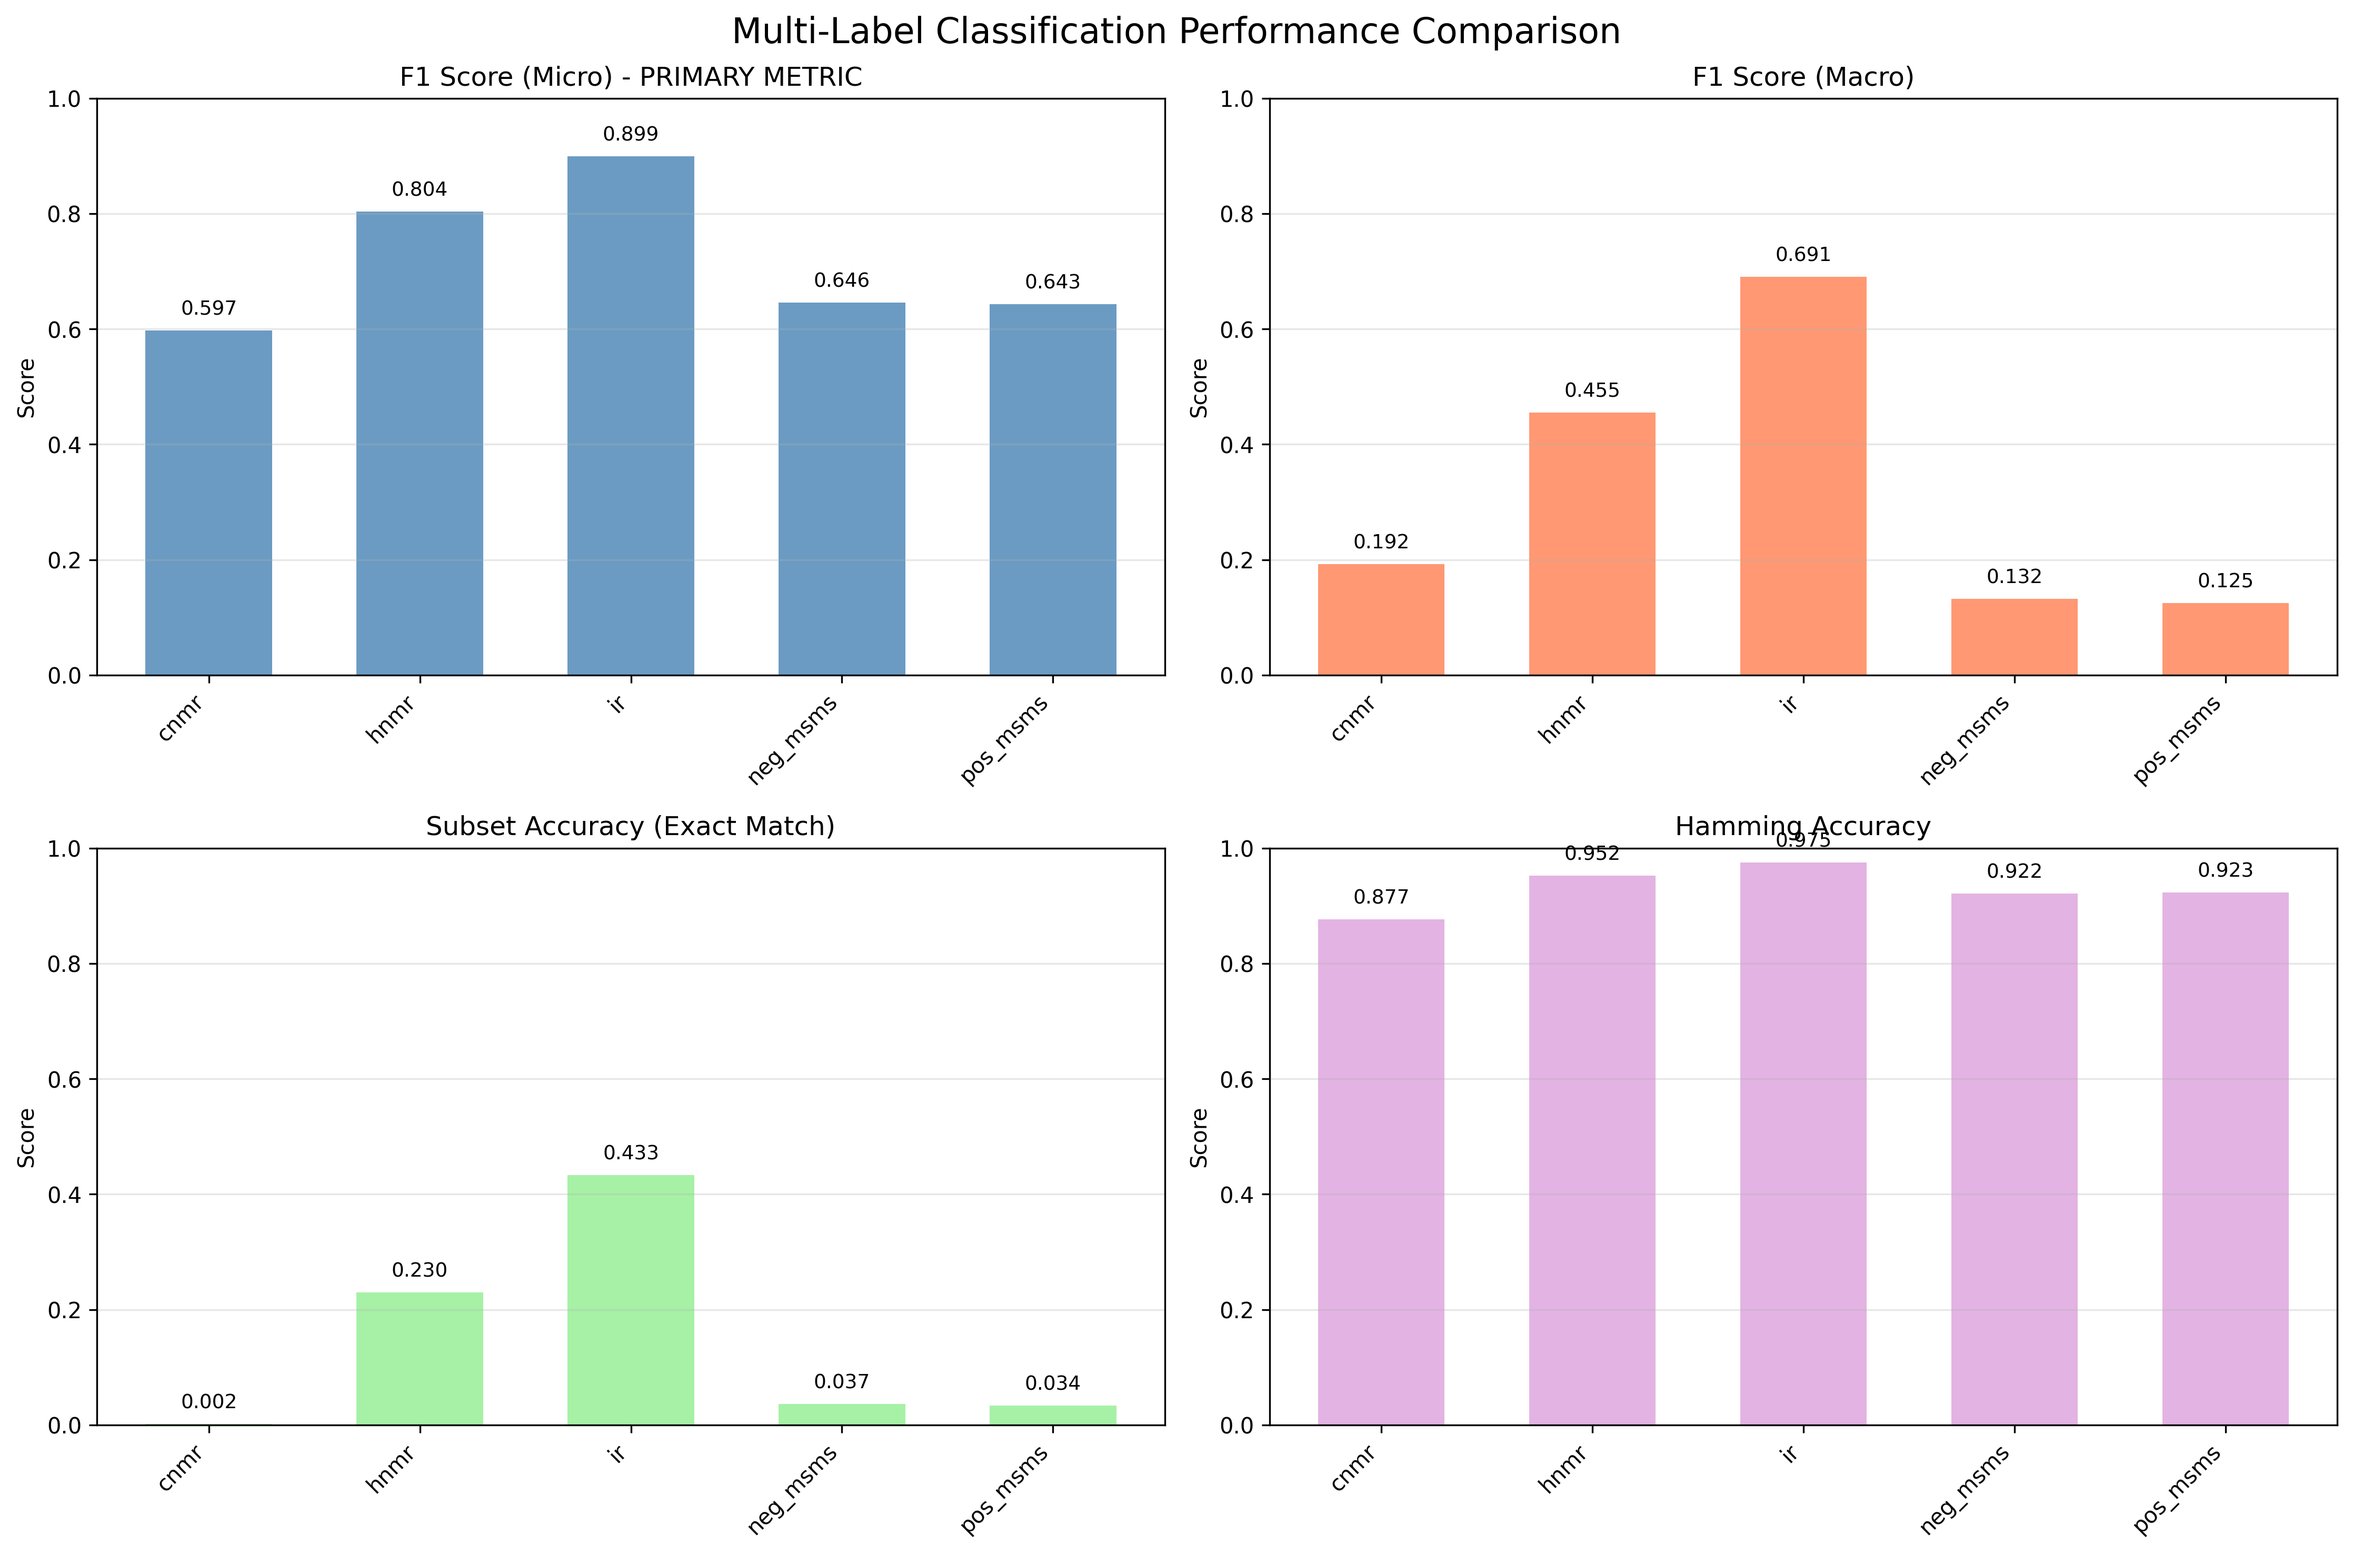
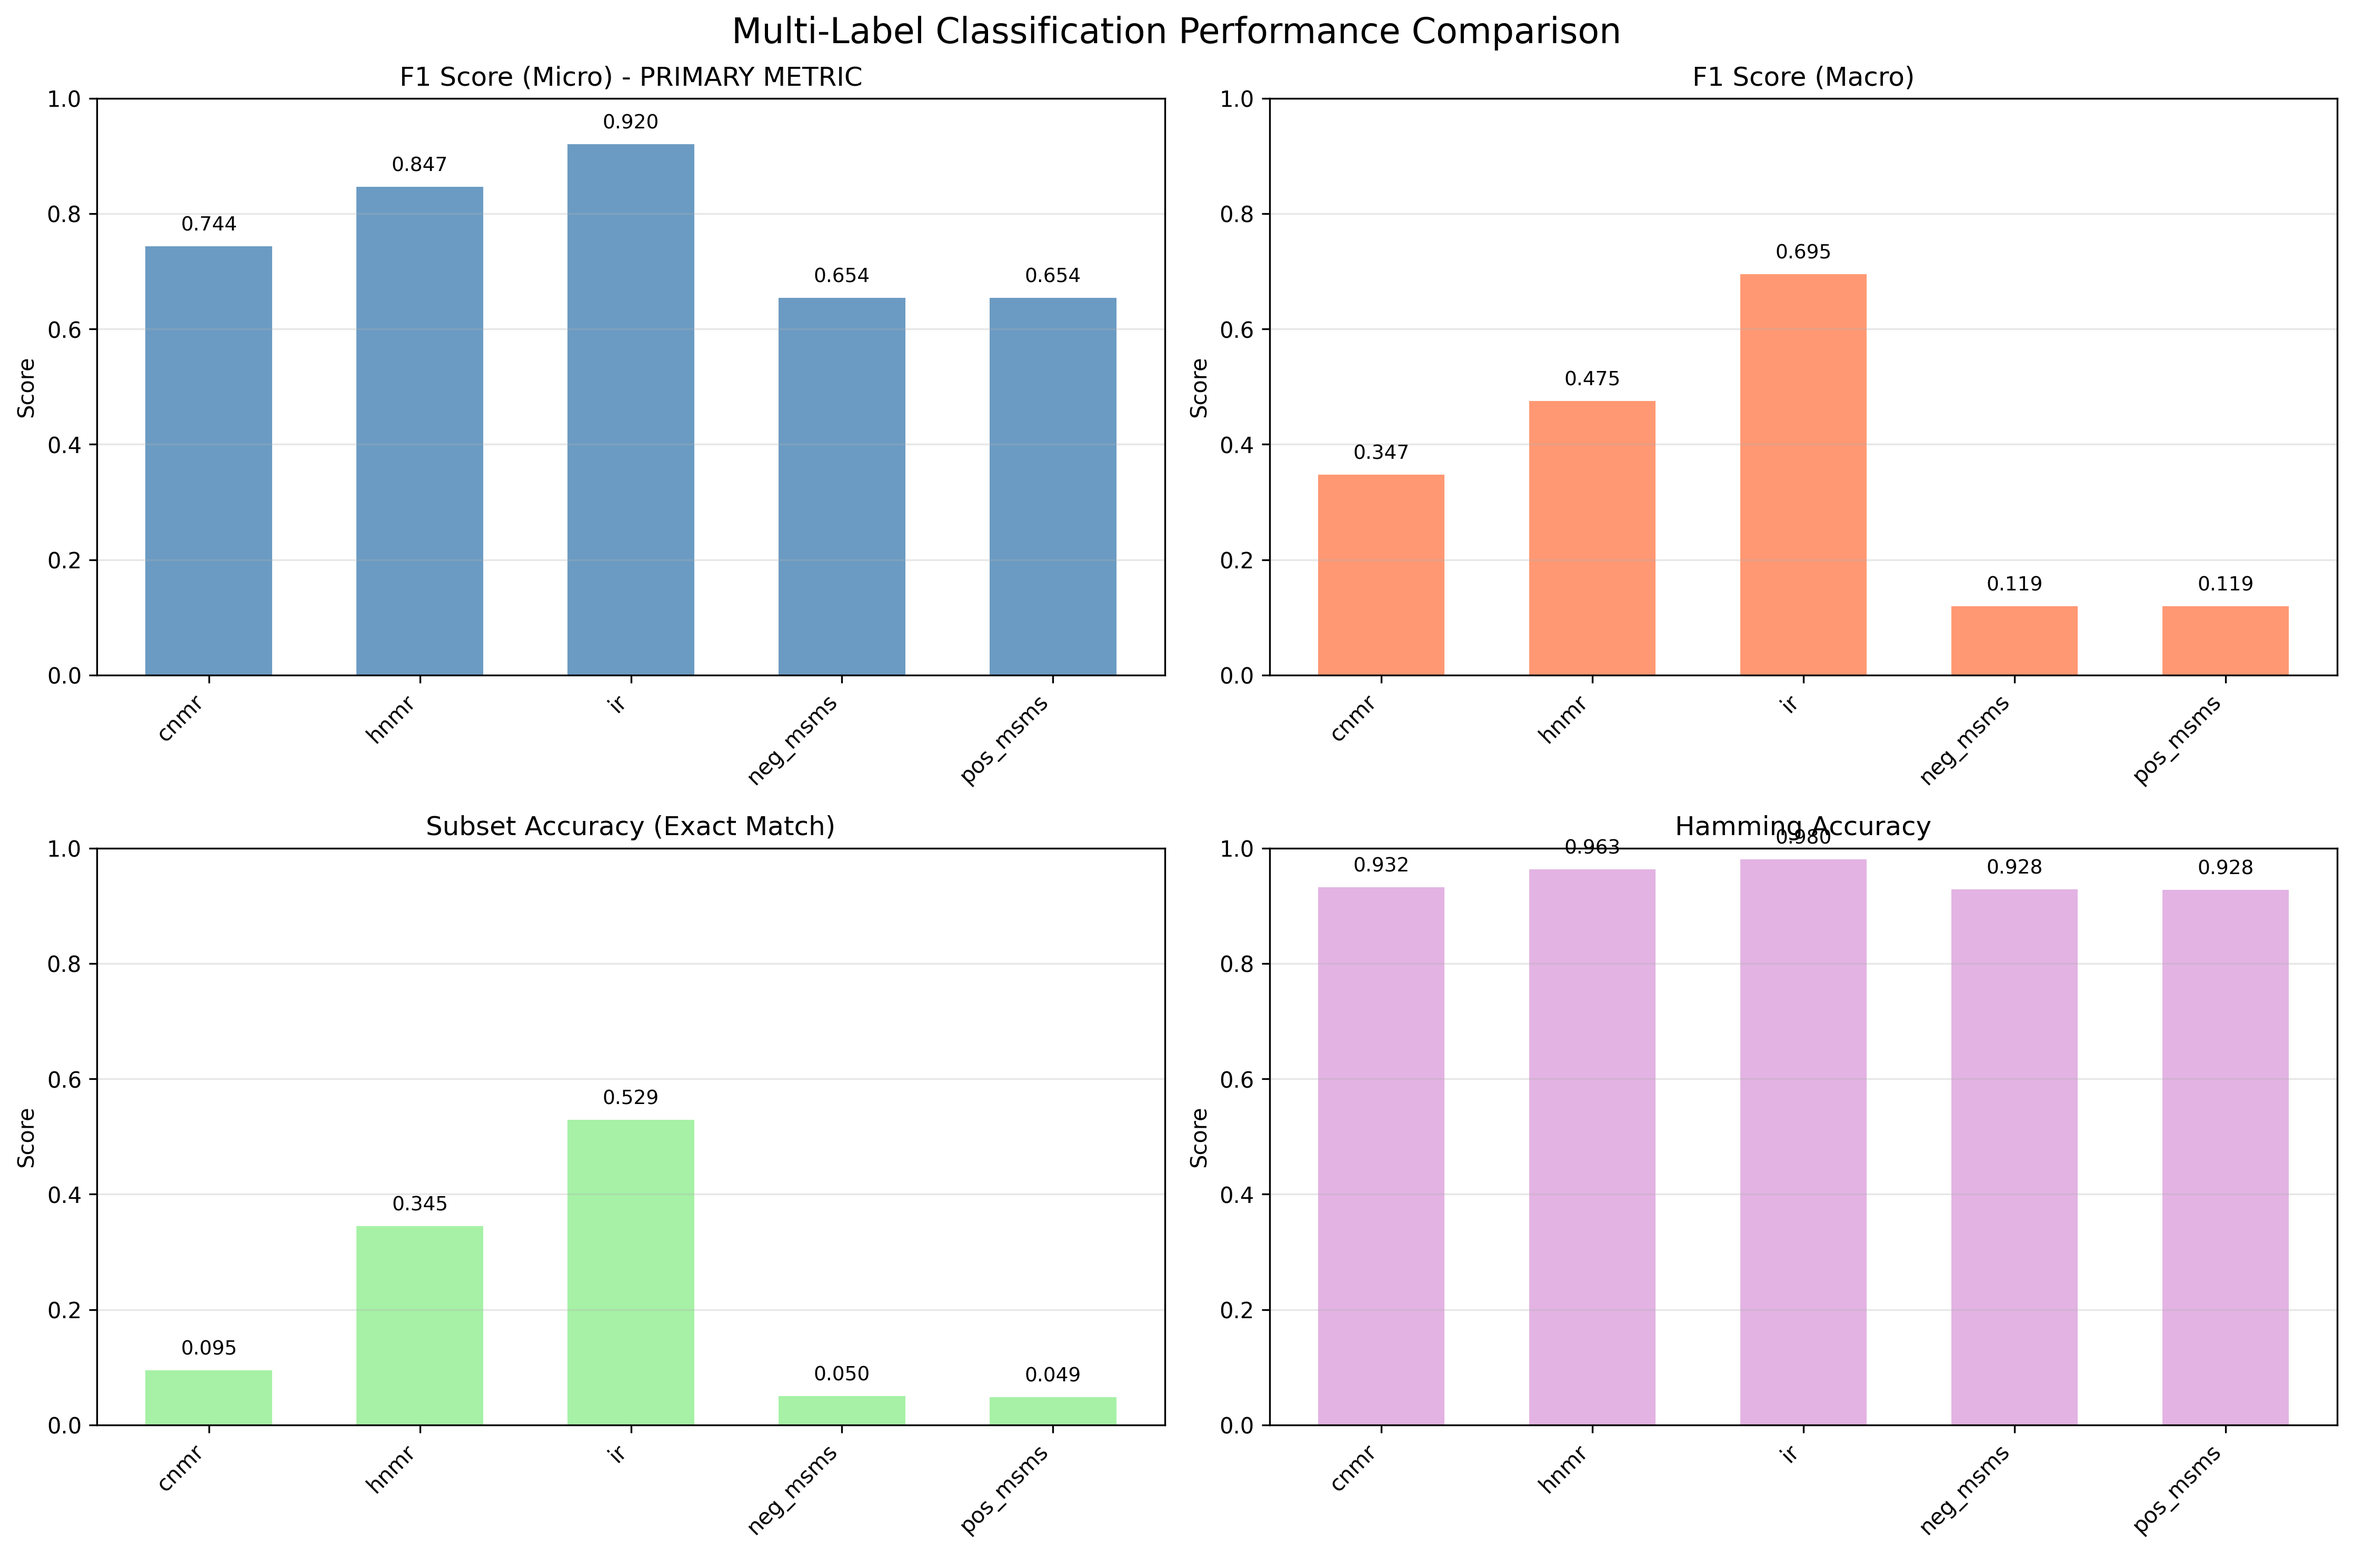
feat: re-run cnn baseline model with improved data split and functional groups definitions

diff --git a/benchmark/cnn/scripts/run_cnn_jung_baseline.py b/benchmark/cnn/scripts/run_cnn_jung_baseline.py
@@ -7,6 +7,7 @@ from pathlib import Path
 import click
 import numpy as np
 import pandas as pd
+import keras
 from keras import backend as K
 from keras.layers import (
     Activation,
@@ -177,12 +178,15 @@ def train_model(X_train, y_train, X_val, y_val, X_test, num_fgs, aug, num, weigh
 
         def get_weighted_loss(weights):
             def weighted_loss(y_true, y_pred):
-                return K.mean(
+                # Keras 3.x compatibility: use keras.ops instead of K.mean/K.binary_crossentropy
+                import keras.ops as ops
+                bce = keras.losses.binary_crossentropy(y_true, y_pred)
+                weighted = (
                     (weights[:, 0] ** (1.0 - y_true))
-                    * (weights[:, 1] ** (y_true))
-                    * K.binary_crossentropy(y_true, y_pred),
-                    axis=-1,
+                    * (weights[:, 1] ** y_true)
+                    * bce
                 )
+                return ops.mean(weighted, axis=-1)
 
             return weighted_loss
 
@@ -311,10 +315,10 @@ def main(analytical_data, base_out_path, columns, seed):
     print(f"Split sizes: train={len(train)}, test={len(test)}")
 
     # Process each column
-    for col_name in columns_to_process:
+    for idx, col_name in enumerate(columns_to_process, 1):
         actual_col, output_dir = column_mapping[col_name]
         print(f"\n{'='*60}")
-        print(f"Training model for: {col_name} (column: {actual_col})")
+        print(f"[{idx}/{len(columns_to_process)}] Training model for: {col_name} (column: {actual_col})")
         print(f"{'='*60}")
 
         X_train = np.stack(train[actual_col].to_list())
@@ -331,16 +335,42 @@ def main(analytical_data, base_out_path, columns, seed):
         # Save results
         out_path = base_out_path / output_dir
         out_path.mkdir(parents=True, exist_ok=True)
-        with open(out_path / "results.pickle", "wb") as file:
-            pickle.dump({"pred": prediction, "tgt": y_test}, file)
+        
+        results_file = out_path / "results.pickle"
+        print(f"\nSaving results to: {results_file}")
+        try:
+            with open(results_file, "wb") as file:
+                pickle.dump({"pred": prediction, "tgt": y_test, "f1_score": f1}, file)
+            print(f"✓ Results saved successfully")
+        except Exception as e:
+            print(f"✗ ERROR saving results: {e}")
+            import traceback
+            traceback.print_exc()
 
-        print(f"Results saved to: {out_path / 'results.pickle'}")
-
-        # Save model
-        model_save_path = base_out_path / "results" / f"{output_dir}_model.keras"
-        model_save_path.parent.mkdir(parents=True, exist_ok=True)
-        model.save(str(model_save_path))
-        print(f"Model saved to: {model_save_path}")
+        # Save model (try .keras format first, fallback to .h5)
+        model_save_path = out_path / f"{output_dir}_model.keras"
+        print(f"\nSaving model to: {model_save_path}")
+        try:
+            model.save(str(model_save_path))
+            print(f"✓ Model saved successfully (Keras format)")
+        except Exception as e:
+            print(f"⚠ Failed to save as .keras format: {e}")
+            print(f"Trying .h5 format...")
+            try:
+                model_save_path_h5 = out_path / f"{output_dir}_model.h5"
+                model.save(str(model_save_path_h5))
+                print(f"✓ Model saved successfully (H5 format) to: {model_save_path_h5}")
+            except Exception as e2:
+                print(f"✗ ERROR: Failed to save model in any format: {e2}")
+                import traceback
+                traceback.print_exc()
+    
+    print(f"\n{'='*60}")
+    print("TRAINING COMPLETED")
+    print(f"{'='*60}")
+    print(f"Total models trained: {len(columns_to_process)}")
+    print(f"Output directory: {base_out_path}")
+    print("Check the logs above for any errors during saving.")
 
 
 if __name__ == "__main__":
